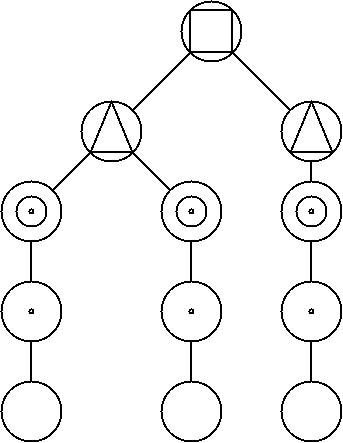
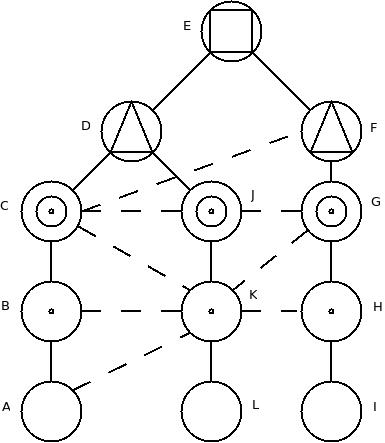
Arreglados problemas ejercicio 9 hecho ejercicio 10

diff --git a/RedTelefonica.tex b/RedTelefonica.tex
@@ -230,7 +230,6 @@ Se desea:\\
 \end{exercise}
 \begin{exercise}[9]
 En la red telefónica de la figura se muestran las rutas finales y las secciones directas. La probabilidad de bloqueo es del 1\% y una probabilidad de desbordamiento del 10\% . Sobre esta red, se le pide lo siguiente:
-\myworries{cambiar la figura para incluir las letras de las centrales y las rutas directas}
 \begin{figure}[H]
 \centering
 \includegraphics[width=0.5\textwidth]{Imagen/ejercicio9tema1.jpg}
@@ -303,11 +302,52 @@ TC_{DC}=TO_{DC}(1-P_B)=57.42E
 \end{exercise}
 \begin{exercise}[10]
 Utilice la red de la figura y la tabla adjunta (que es simétrica) para contestar a las siguientes preguntas:\\
-NOTA: La probabilidad de pérdidas en ruta final es del 1 \% y la probabilidad de desbordamiento en secciones directas es del 10\% .\\
-\myworries{Incluir imagen y tabla del ejercicio}
-\textbf{1.} Rutas entre las siguientes centrales: A$\to$I,I$\to$G,A$\to$G,J$\to$G.\\
-
+NOTA: La probabilidad de pérdidas en ruta final es del 1 \% y la probabilidad de desbordamiento en secciones directas es del 10\% .
+\begin{figure}[H]
+\centering
+\includegraphics[width=0.5\textwidth]{Imagen/ejercicio10tema1.jpg}
+\label{}
+\end{figure}
+\begin{center}
+\begin{tabular}{| c | c | c | c | c | c | c | c | c | c | c |}
+\hline
+   & A & B  & C  & D  & E  & F  & G & H  & I  & J  \\\hline
+ A & - & 15 & 15 & 10 & 3  & 5  & 4 & 10 & 5  & 1  \\\hline
+ B &   & -  & 15 & 10 & 3  & 5  & 5 & 10 & 5  & 1  \\\hline
+ C &   &    & -  & 10 & 20 & 30 & 1 & 1  & 5  & 2  \\\hline
+ D &   &    &    & -  & 10 & 10 & 5 & 1  & 2  & 1  \\\hline
+ E &   &    &    &    & -  & 5  & 5 & 25 & 10 & 5  \\\hline
+ F &   &    &    &    &    & -  & 5 & 5  & 10 & 2  \\\hline
+ G &   &    &    &    &    &    & - & 10 & 5  & 2  \\\hline
+ H &   &    &    &    &    &    &   & -  & 5  & 2  \\\hline
+ I &   &    &    &    &    &    &   &    & -  & 2  \\\hline
+\end{tabular}
+\end{center}
+\textbf{1.} Rutas entre las siguientes centrales: A$\to$I, I$\to$G, A$\to$G, J$\to$G.\\
+\begin{center}
+\begin{tabular}{c c c c}
+A$\to$I & AI  		& I$\to$G 	& IFG 		\\
+ 		& ABHI		&			& IHEFG		\\
+ 		& ABCHI		&			& IHCFG		\\
+ 		& 			&			& IHCDEFG	\\
+A$\to$G & ABCFG  	& J$\to$G 	& JHEFG 	\\
+ 		& ABCDEFG	&			& JHCFG		\\
+ 		& 			&			& JHCDEFG	\\
+\end{tabular}
+\end{center}
 \textbf{2.} Tráfico ofrecido y cursado en la sección directa CE/EC.\\
+\begin{gather*}
+TO_{CE}=TO_{CEpropio}+TO_{HEdesb}+TO_{BE}+TO_{AE}\\
+TO_{HE}=TO_{HEpropio}+TO_{IFdesb}+TO_{HF}+TO_{HG}+TO_{JE}+TO_{JF}+TO_{JG}\\
+TO_{IF}=TO_{IFpropio}+TO_{IG}=15E\\
+TO_{HE}=50.5E\\
+TO_{CE}=31.05E\\
+TC_{CE}=TO_{CE}(1-P_B)=30.7395E\\
+TO_{EC}=TO_{ECpropio}+TO_{FC'desb}+TO_{EB}+TO_{EA}\\
+TO_{FC'}=TO_{FCpropio}+TO_{FB}+TO_{FA}+TO_{GC}+TO_{GB}+TO_{GA}=50E\\
+TO_{EC}=31E\\
+TC_{EC}=30.69E
+\end{gather*}
 \end{exercise}
 \begin{exercise}[11]
 En la comunidad Autónoma de Andalucía (con 8 provincia), existe una central secundaria en cada provincia para cursar el tráfico provincial, y solo una central terciaria situada en Sevilla para cursar el tráfico interprovincial. Ahí es precisamente donde se sitúa el proveedor de servicios de Internet o ISP. Asumamos que cada provincia está compuesta por 10 localidades (es un escenario ficticio pero es para poder simplificar el ejercicio), y en cada una de ellas se encuentra situada una central primaria, para cursar el tráfico local. Asimismo, cada localidad está formada por una serie de barrios, y en cada uno de ellos existe una central local con capacidad para 2000 líneas.\\
